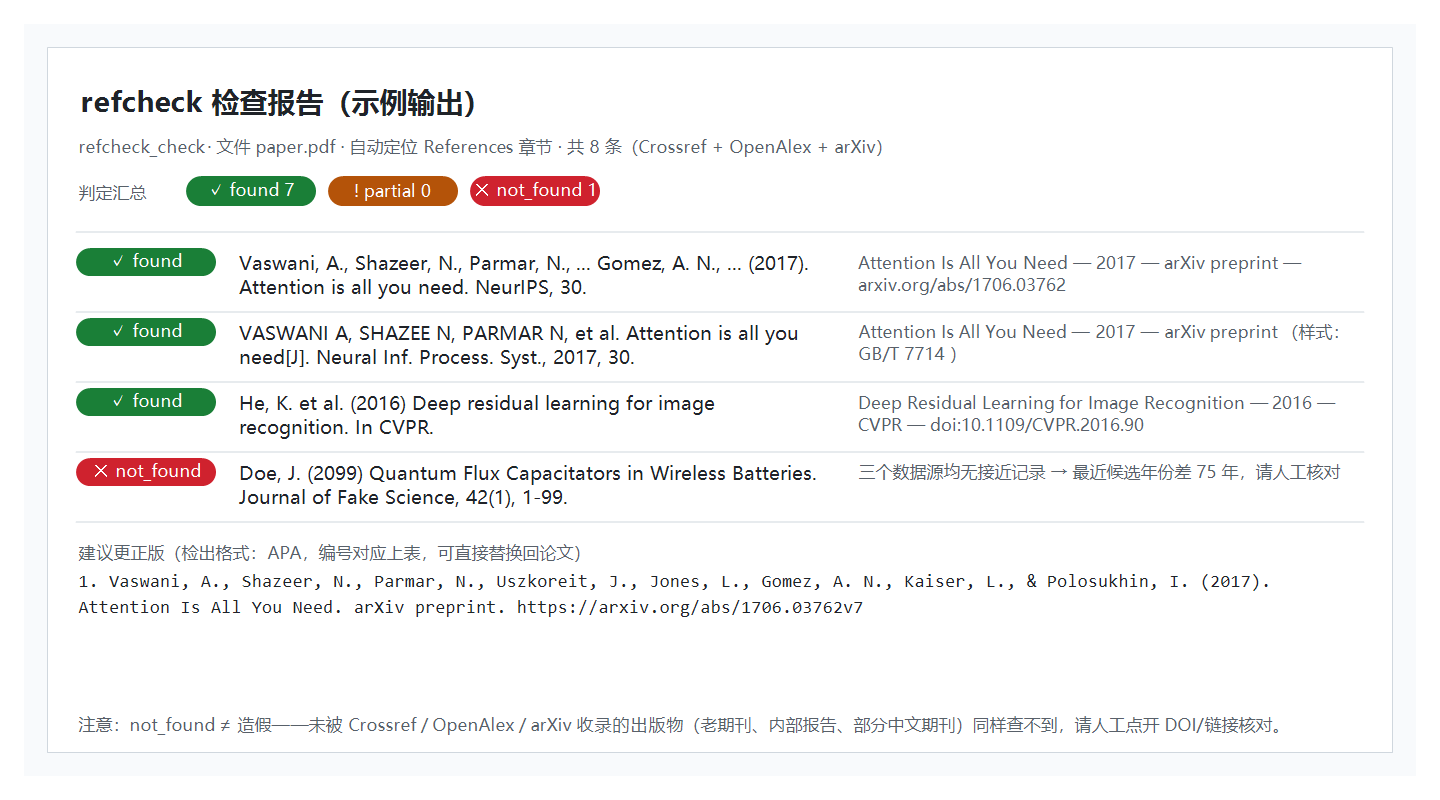
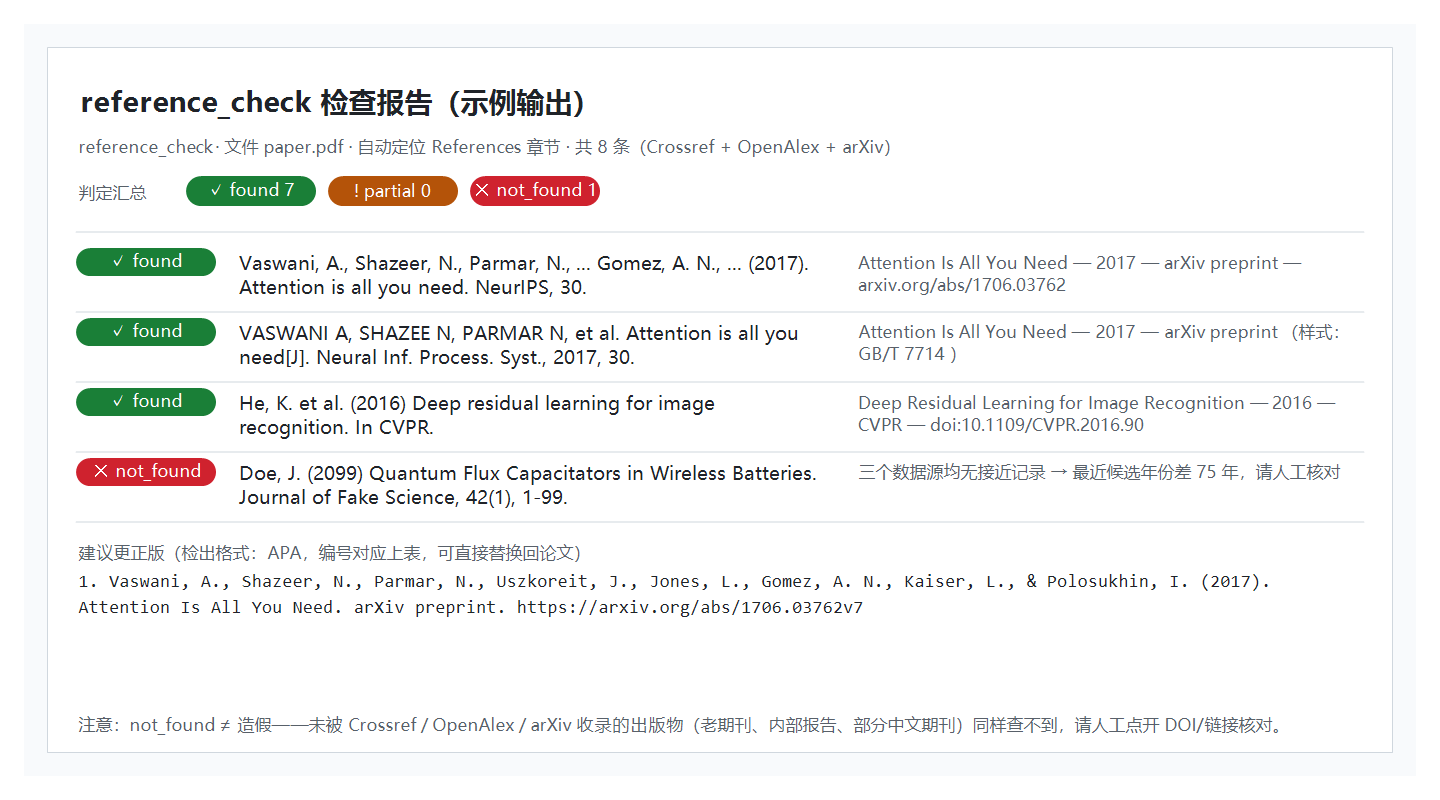
feat: rename model tool refcheck_check -> reference_check (v1.2.0)

Changed region(s): [[0.0625, 0.0938, 0.625, 0.2188]]

diff --git a/README.en.md b/README.en.md
@@ -10,7 +10,7 @@
 
 [![Awesome DSH Plugin](https://awesome-dsh-plugin.com/badge.svg)](https://awesome-dsh-plugin.com)
 
-**Reference-verification for [DeepSeek Harness](https://github.com/deepseek-ai/deepseek-harness)** — one model tool, `refcheck_check`, that takes a paper (`.pdf` / `.bib` / `.tex` / `.txt` / `.md`) or a pasted reference list and verifies every entry against **Crossref / OpenAlex / arXiv**. Each reference gets a verdict (`found` / `partial` / `not_found` / `error`), the closest real record (title, year, venue, volume, pages, DOI/URL), and a **corrected citation in the input's own style** (APA, GB/T 7714, IEEE, Vancouver, MLA, Chicago, Harvard, ACS, or BibTeX) — ready to paste back into the paper.
+**Reference-verification for [DeepSeek Harness](https://github.com/deepseek-ai/deepseek-harness)** — one model tool, `reference_check`, that takes a paper (`.pdf` / `.bib` / `.tex` / `.txt` / `.md`) or a pasted reference list and verifies every entry against **Crossref / OpenAlex / arXiv**. Each reference gets a verdict (`found` / `partial` / `not_found` / `error`), the closest real record (title, year, venue, volume, pages, DOI/URL), and a **corrected citation in the input's own style** (APA, GB/T 7714, IEEE, Vancouver, MLA, Chicago, Harvard, ACS, or BibTeX) — ready to paste back into the paper.
 
 Host-only plugin (no browser UI, no services); the single runtime dependency is `pdf-parse` (PDF text-layer extraction).
 
@@ -33,7 +33,7 @@ Host-only plugin (no browser UI, no services); the single runtime dependency is 
 dsh plugin --profile web add github:Yu-tao-Li/dsh-reference-checker
 ```
 
-Restart `dsh web` (or the dsh process); `refcheck_check` is then available in every session.
+Restart `dsh web` (or the dsh process); `reference_check` is then available in every session.
 
 > The bundle resolves by package name (`cordis.patch.yml` is a single mount line), so it installs into any profile / `$DSH_HOME` — no hardcoded paths.
 
@@ -61,7 +61,7 @@ Every `found`/`partial` entry carries `best` (the closest real record: title / y
 ## How it works
 
 ```
-refcheck_check (model tool, in the DSH host process)
+reference_check (model tool, in the DSH host process)
    │
    ├─ extract   .pdf → pdf-parse text layer + References-section location
    │            .bib → brace-depth parser   .tex → thebibliography / \bibliography

diff --git a/README.md b/README.md
@@ -10,7 +10,7 @@
 
 [![Awesome DSH Plugin](https://awesome-dsh-plugin.com/badge.svg)](https://awesome-dsh-plugin.com)
 
-**给 [DeepSeek Harness](https://github.com/deepseek-ai/deepseek-harness) 装上参考文献真实性检查能力**——一个模型工具 `refcheck_check`，把一篇论文（`.pdf` / `.bib` / `.tex` / `.txt` / `.md`）或一段粘贴的文献列表逐条对照 **Crossref / OpenAlex / arXiv** 三个公开书目索引核对，逐条判定 `found` / `partial` / `not_found` / `error`，并**按输入样式**（APA、GB/T 7714、IEEE、Vancouver、MLA、Chicago、Harvard、ACS + BibTeX）生成可直接替换回论文的**更正版引用**。
+**给 [DeepSeek Harness](https://github.com/deepseek-ai/deepseek-harness) 装上参考文献真实性检查能力**——一个模型工具 `reference_check`，把一篇论文（`.pdf` / `.bib` / `.tex` / `.txt` / `.md`）或一段粘贴的文献列表逐条对照 **Crossref / OpenAlex / arXiv** 三个公开书目索引核对，逐条判定 `found` / `partial` / `not_found` / `error`，并**按输入样式**（APA、GB/T 7714、IEEE、Vancouver、MLA、Chicago、Harvard、ACS + BibTeX）生成可直接替换回论文的**更正版引用**。
 
 纯宿主端插件（host-only，无浏览器 UI、不碰你的文件除读取外）；唯一运行时依赖 `pdf-parse`（提取 PDF 文本层）。
 
@@ -33,7 +33,7 @@
 dsh plugin --profile web add github:Yu-tao-Li/dsh-reference-checker
 ```
 
-重启 `dsh web`（或重启 dsh 进程），`refcheck_check` 在所有会话可用。
+重启 `dsh web`（或重启 dsh 进程），`reference_check` 在所有会话可用。
 
 > bundle 按包名自解析（`cordis.patch.yml` 只有一行挂载），任何 profile / `$DSH_HOME` 都能装，无硬编码路径。
 
@@ -61,7 +61,7 @@ dsh plugin --profile web add github:Yu-tao-Li/dsh-reference-checker
 ## 工作原理
 
 ```
-refcheck_check（模型工具，宿主进程内）
+reference_check（模型工具，宿主进程内）
    │
    ├─ 提取  .pdf → pdf-parse 文本层 + References 章节定位
    │        .bib → 括号深度解析   .tex → thebibliography / \bibliography

diff --git a/docs/dev-notes.md b/docs/dev-notes.md
@@ -122,3 +122,4 @@ BibTeX 输入强制 `bibtex` 模板，key 沿用原条目的 key。
 | 1.0.1 | 本地迭代修正（打包格式/文档） |
 | 1.0.2 | `splitName` 姓/名切分修正（多词名）；IEEE 模板残留逗号修正；e2e 增加回归断言 |
 | 1.1.0 | 改名 `dsh-refcheck` → `dsh-reference-checker`（全称 + 中文标题）；bundle id 与 User-Agent 同步更新 |
+| 1.2.0 | 模型工具改名 `refcheck_check` → `reference_check`（与包名同词根，全称）；文档/截图/收录条目同步 |
